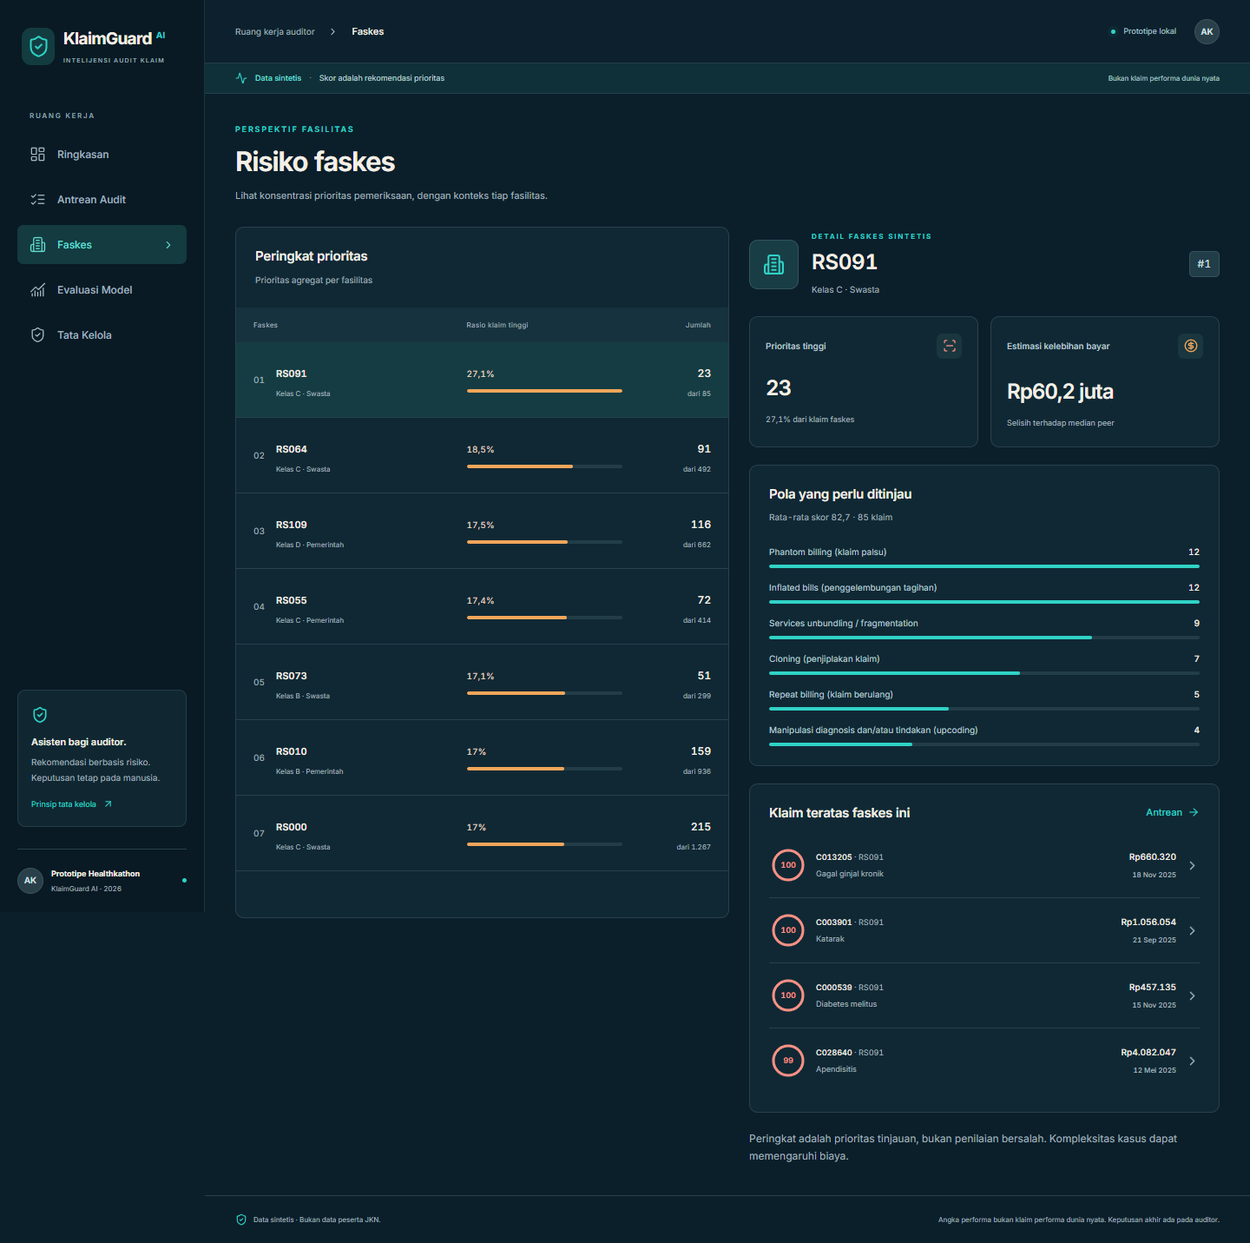
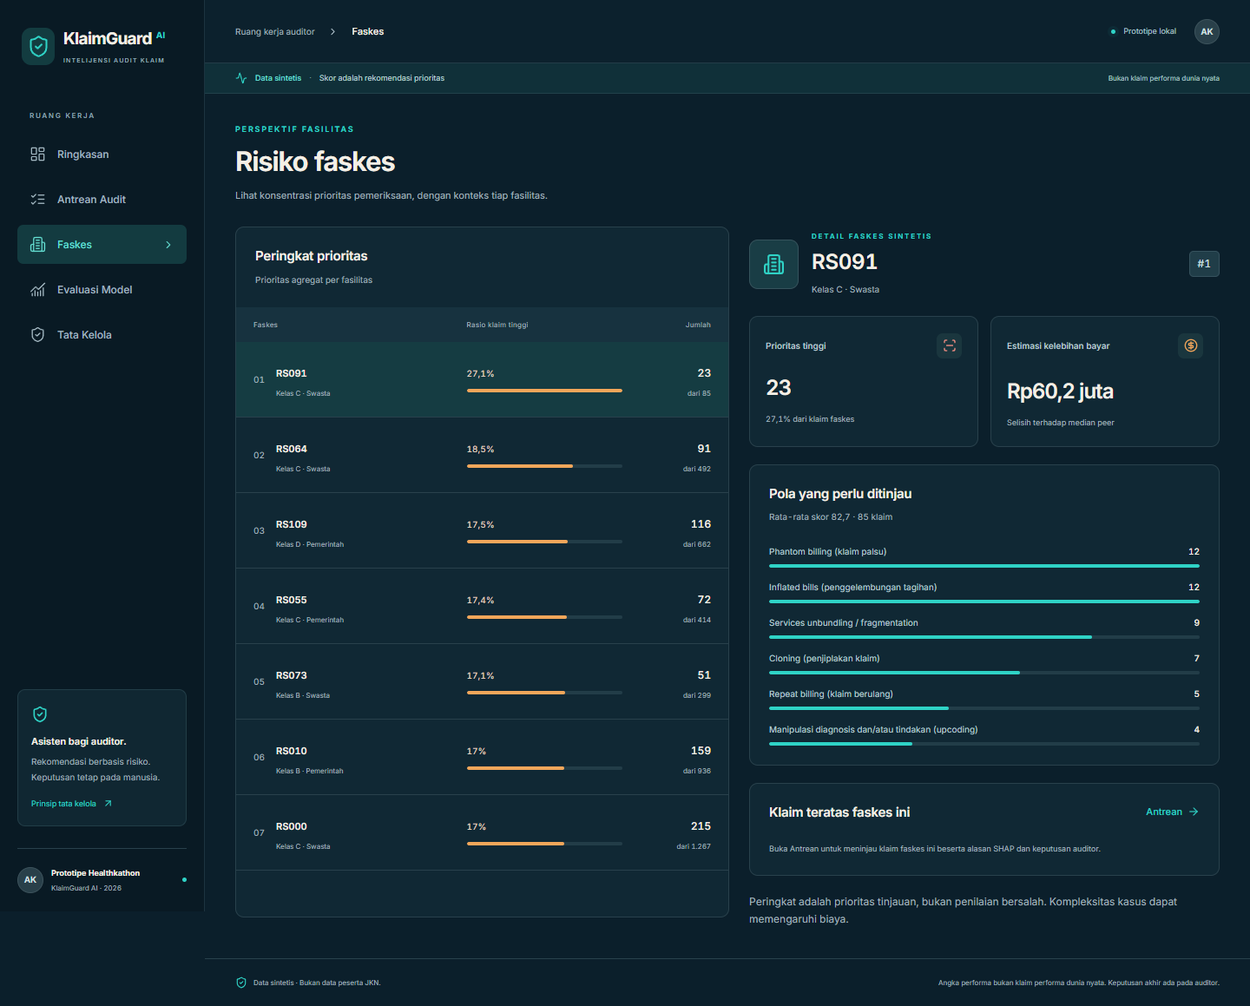
perf(web): defer claim payload until audit queue and verify mobile gains

diff --git a/web/src/App.tsx b/web/src/App.tsx
@@ -2,7 +2,7 @@ import { Component, lazy, Suspense, useCallback, useEffect, useState } from 'rea
 import type { ReactNode } from 'react'
 import { Activity, ArrowUpRight, Building2, ChartNoAxesCombined, ChevronRight, CircleHelp, FlaskConical, LayoutDashboard, ListChecks, Menu, RefreshCw, ShieldCheck, X } from 'lucide-react'
 import { WorkspaceContext } from './context'
-import { loadData, readDecisions, STORAGE_KEY } from './lib'
+import { loadClaims, loadData, readDecisions, STORAGE_KEY } from './lib'
 import type { Claim, Data, Decision, DecisionValue } from './types'
 import Overview from './pages/Overview'
 import Queue from './pages/Queue'
@@ -30,6 +30,7 @@ export default function App() {
   const [routeKey, setRouteKey] = useState(location.hash)
   const [data, setData] = useState<Data | null>(null)
   const [error, setError] = useState(''), [reload, setReload] = useState(0)
+  const [claimsError, setClaimsError] = useState('')
   const [menu, setMenu] = useState(false), [evaluation, setEvaluation] = useState(false)
   const [mobile, setMobile] = useState(() => matchMedia('(max-width: 760px)').matches)
   const [initialStorage] = useState(readDecisions)
@@ -50,6 +51,15 @@ export default function App() {
     loadData(controller.signal).then(setData).catch(e => { if (!controller.signal.aborted) setError(e instanceof Error ? e.message : 'Terjadi gangguan saat membaca data.') })
     return () => controller.abort()
   }, [reload])
+  useEffect(() => {
+    if (route !== '/antrean' || !data || data.claimsLoaded) return
+    const controller = new AbortController()
+    setClaimsError('')
+    loadClaims(controller.signal).then(claims => {
+      if (!controller.signal.aborted) setData(previous => previous ? { ...previous, claims, claimsLoaded: true } : previous)
+    }).catch(e => { if (!controller.signal.aborted) setClaimsError(e instanceof Error ? e.message : 'Data klaim belum dapat dimuat.') })
+    return () => controller.abort()
+  }, [route, Boolean(data), data?.claimsLoaded, reload])
   useEffect(() => { const escape = (e: KeyboardEvent) => { if (e.key === 'Escape') setMenu(false) }; document.addEventListener('keydown', escape); return () => document.removeEventListener('keydown', escape) }, [])
   useEffect(() => { const media = matchMedia('(max-width: 760px)'); const change = () => setMobile(media.matches); media.addEventListener('change', change); return () => media.removeEventListener('change', change) }, [])
   const saveDecision = (claim: Claim, decision: DecisionValue, note: string) => {
@@ -58,6 +68,8 @@ export default function App() {
     try { localStorage.setItem(STORAGE_KEY, JSON.stringify(updated)); setStorageError('') } catch { setStorageError('Penyimpanan lokal gagal. Keputusan tersedia selama sesi ini; ekspor CSV sebelum menutup halaman.') }
   }
   const page = route === '/' ? <Overview /> : route === '/antrean' ? <Queue key={routeKey} /> : route === '/faskes' ? <Facilities /> : route === '/evaluasi' ? <Evaluation /> : route === '/tata-kelola' ? <Governance /> : <div className="empty"><h1>Halaman tidak ditemukan</h1><p>Pilih halaman dari navigasi.</p><a className="button button-primary" href="#/">Kembali ke Ringkasan</a></div>
+  const activeError = error || (route === '/antrean' ? claimsError : '')
+  const loading = !data || (route === '/antrean' && !data.claimsLoaded)
   const shell = <>
     <a className="skip-link" href="#main-content" onClick={e => { e.preventDefault(); document.getElementById('main-content')?.focus() }}>Lewati ke konten utama</a>
     {menu && <button className="nav-backdrop" aria-label="Tutup navigasi" onClick={() => setMenu(false)} />}
@@ -66,7 +78,7 @@ export default function App() {
     </aside>
     <div className="app-main"><header className="topbar"><div className="breadcrumb"><button className="mobile-menu icon-button" aria-label="Buka navigasi" aria-expanded={menu} onClick={() => setMenu(!menu)}><Menu size={22} /></button><span>Ruang kerja auditor</span><ChevronRight size={13} /><b>{current?.name || 'Halaman'}</b></div><div className="topbar-status">{evaluation && <a href="#/evaluasi" className="evaluation-pill"><FlaskConical size={13} />Mode Evaluasi</a>}<span className="connection-dot" /><span>Prototipe lokal</span><span className="topbar-avatar">AK</span></div></header>
       <div className="data-banner"><span><Activity size={14} /><b>{data?.summary.data_source === 'sample' ? 'Data contoh sintetis' : 'Data sintetis'}</b><span className="banner-dot">·</span>Skor adalah rekomendasi prioritas</span><span className="banner-right">{data?.summary.data_source === 'sample' ? 'Angka & SHAP ilustratif · bukan hasil ML' : 'Bukan klaim performa dunia nyata'}</span></div>
-      <main id="main-content" tabIndex={-1}><PageBoundary key={routeKey}>{error ? <div className="error-state" role="alert"><CircleHelp size={36} /><h1>Data belum dapat dimuat.</h1><p>{error}</p><p>Pastikan lima file JSON tersedia di folder public/data.</p><button className="button button-primary" onClick={() => { setData(null); setReload(n => n + 1) }}><RefreshCw size={15} />Coba lagi</button></div> : !data ? <Skeleton /> : <Suspense fallback={<Skeleton />}>{page}</Suspense>}</PageBoundary></main>
+      <main id="main-content" tabIndex={-1}><PageBoundary key={routeKey}>{activeError ? <div className="error-state" role="alert"><CircleHelp size={36} /><h1>Data belum dapat dimuat.</h1><p>{activeError}</p><p>Pastikan lima file JSON tersedia di folder public/data.</p><button className="button button-primary" onClick={() => { setData(null); setClaimsError(''); setReload(n => n + 1) }}><RefreshCw size={15} />Coba lagi</button></div> : loading ? <Skeleton /> : <Suspense fallback={<Skeleton />}>{page}</Suspense>}</PageBoundary></main>
       <footer className="app-footer"><span><ShieldCheck size={14} />Data sintetis · Bukan data peserta JKN.</span><span>Angka performa bukan klaim performa dunia nyata. Keputusan akhir ada pada auditor.</span></footer>
     </div>
     {data && selected && <ClaimDrawer key={selected.claim_id} claim={selected} onClose={closeDrawer} />}

diff --git a/web/src/pages/Evaluation.tsx b/web/src/pages/Evaluation.tsx
@@ -55,7 +55,7 @@ export default function Evaluation() {
     <Card title="Recall per jenis pola" subtitle="Anggaran pemeriksaan 5%; pola disuntikkan"><VariantTable rows={report.per_type_recall_at_5} metric="Recall per jenis pola pada anggaran 5%" /></Card>
     <Card title="Eksperimen hold-out per jenis pola" subtitle="Jenis T dikeluarkan dari train supervised sebelum validasi internal"><VariantTable rows={report.holdout} metric="Hasil hold-out per jenis pola" /><div className="holdout-note"><p><b>Pola yang belum pernah dilihat sebagian besar tidak tertangkap model supervised.</b> Tambahan sinyal IF membantu beberapa jenis, tetapi belum memberi keunggulan yang konsisten; IF dan fitur referensi tetap transduktif.</p></div></Card>
     <Card title="Evaluasi per kelompok" subtitle="Parameter tetap; kelompok tidak berbagi outer train/uji maupun inner train/validasi">{report.grouped_eval ? Object.entries(report.grouped_eval).map(([key, result]) => <GroupedTables key={key} result={result} label={key === 'faskes_id' ? 'Faskes terpisah' : 'Pasien terpisah'} />) : <Notice>Evaluasi per kelompok belum tersedia pada JSON yang dimuat.</Notice>}</Card>
-    {evaluation && <Card title="Matriks evaluasi sederhana" subtitle={`Anggaran top ${budget}% dari ${number(summary.dataset.n_claims)} klaim sumber`}><PerformanceLabel /><Notice>Hanya {number(data.claims.filter(c => c.eval).length)} klaim ekspor berlabel; bukan matriks seluruh dataset. {topCount >= data.claims.length && 'Seluruh subset ekspor berada dalam anggaran ini, sehingga nol FN/TN di subset bukan bukti semua kasus tertangkap.'}</Notice><div className="confusion-matrix">{[['Pola disuntikkan · diprioritaskan', matrix.tp, 'Positif benar (TP)'], ['Normal · diprioritaskan', matrix.fp, 'Positif keliru (FP)'], ['Pola disuntikkan · tidak diprioritaskan', matrix.fn, 'Negatif keliru (FN)'], ['Normal · tidak diprioritaskan', matrix.tn, 'Negatif benar (TN)']].map(([label, value, note]) => <div key={label}><span>{label}</span><b><PerformanceValue>{number(Number(value))}</PerformanceValue></b><small>{note}</small></div>)}</div></Card>}
+    {evaluation && !data.claimsLoaded && <Card title="Matriks evaluasi sederhana"><p className="chart-caption">Data klaim belum dimuat. Buka Antrean Audit, lalu kembali untuk melihat matriks subset ekspor.</p><a className="text-link" href="#/antrean">Buka Antrean Audit <ArrowRight size={14} /></a></Card>}{evaluation && data.claimsLoaded && <Card title="Matriks evaluasi sederhana" subtitle={`Anggaran top ${budget}% dari ${number(summary.dataset.n_claims)} klaim sumber`}><PerformanceLabel /><Notice>Hanya {number(data.claims.filter(c => c.eval).length)} klaim ekspor berlabel; bukan matriks seluruh dataset. {topCount >= data.claims.length && 'Seluruh subset ekspor berada dalam anggaran ini, sehingga nol FN/TN di subset bukan bukti semua kasus tertangkap.'}</Notice><div className="confusion-matrix">{[['Pola disuntikkan · diprioritaskan', matrix.tp, 'Positif benar (TP)'], ['Normal · diprioritaskan', matrix.fp, 'Positif keliru (FP)'], ['Pola disuntikkan · tidak diprioritaskan', matrix.fn, 'Negatif keliru (FN)'], ['Normal · tidak diprioritaskan', matrix.tn, 'Negatif benar (TN)']].map(([label, value, note]) => <div key={label}><span>{label}</span><b><PerformanceValue>{number(Number(value))}</PerformanceValue></b><small>{note}</small></div>)}</div></Card>}
     <div className="evaluation-grid"><Card title="Kontribusi fitur global" subtitle="Rata-rata |SHAP| OOF dalam log-odds; bukan ukuran akurasi"><PerformanceLabel /><div className="pattern-bars">{report.feature_importance.map(f => <div className="pattern-bar" key={f.feature}><div><span>{f.label}</span><b><PerformanceValue>{number(f.importance)}</PerformanceValue></b></div><div className="bar-track"><i style={{ width: `${f.importance / Math.max(...report.feature_importance.map(x => x.importance), 0.01) * 100}%` }} /></div></div>)}</div></Card><Card title="Alur yang dapat ditelusuri" subtitle={`Seed ${report.config.seed} · ${report.config.folds} fold`}><div className="pipeline">{['Input sintetis', 'Fitur klaim & median peer', 'Isolation Forest + XGBoost', 'Penjelasan SHAP', 'Auditor manusia'].map((s, i) => <div key={s}><span>{String(i + 1).padStart(2, '0')}</span><b>{s}</b>{i < 4 && <ArrowRight size={15} />}</div>)}</div><p className="chart-caption">Skor antrean mempertahankan persentil hybrid OOF per klaim. Evaluasi kelompok tidak mengganti skor ini.</p></Card></div>
     <Card title="Batasan" className="limitations"><ul><li>Seluruh data sintetis dan pola fraud disuntikkan. Angka performa bukan klaim performa dunia nyata.</li><li>Overlap terarah dipilih setelah membandingkan definisi pada data penuh; keputusan ini membatasi independensi evaluasi.</li><li>IF, median peer, tetangga dan riwayat menggunakan batch penuh tanpa label: evaluasi transduktif, termasuk pada skema kelompok.</li><li>Biaya tinggi pada faskes kasus kompleks dapat wajar; false positive perlu diperiksa oleh auditor manusia.</li><li>Performa pada data riil, kelompok baru dan masa depan harus divalidasi ulang dengan izin resmi.</li><li>Skor adalah peringkat prioritas, bukan probabilitas fraud. Keputusan akhir ada pada auditor.</li></ul>{report.notes.map((note, i) => <p key={i} className="model-note">{note}</p>)}</Card>
   </>

diff --git a/web/src/pages/Overview.tsx b/web/src/pages/Overview.tsx
@@ -1,13 +1,13 @@
 import { ArrowRight, Building2, CircleDollarSign, Files, ScanLine, ShieldCheck } from 'lucide-react'
 import { useWorkspace } from '../context'
-import { BudgetStatement, Card, LiftChart, Metric, PageHeading, TopClaims, PerformanceLabel } from '../components'
+import { BudgetStatement, Card, LiftChart, Metric, PageHeading, PerformanceLabel } from '../components'
 import BudgetSimulation from '../BudgetSimulation'
 import { compactMoney, number } from '../lib'
 import { PATTERNS } from '../types'
 
 export default function Overview() {
   const { data } = useWorkspace()
-  const { summary, claims, report } = data
+  const { summary, report } = data
   const counts = PATTERNS.map(p => ({ name: p, count: data.facilities.reduce((n, f) => n + (f.pattern_counts[p] || 0), 0) })).sort((a, b) => b.count - a.count)
   const hist = summary.score_hist
   const max = Math.max(...hist.counts, 1)
@@ -19,6 +19,6 @@ export default function Overview() {
     <BudgetSimulation />
     <div className="overview-charts"><Card title="Sebaran skor risiko" subtitle="Persentil skor, bukan probabilitas fraud" action={<span className="mini-label">SKOR 0–100</span>}><div className="histogram"><div className="hist-y"><span>{number(max)}</span><span>{number(Math.round(max / 2))}</span><span>0</span></div><div className="hist-columns">{hist.counts.map((n, i) => <div className="hist-col" key={i} title={`Skor ${hist.bin_edges[i]}–${hist.bin_edges[i + 1]}: ${n} klaim`}><div style={{ height: `${n / max * 100}%`, background: hist.bin_edges[i] >= 95 ? 'var(--coral)' : hist.bin_edges[i] >= 90 ? 'var(--amber)' : 'var(--teal)' }} /><span>{i % 4 === 0 ? hist.bin_edges[i] : ''}</span></div>)}</div></div><div className="tier-summary"><span><i className="legend-dot bg-teal" />Rendah <b>{number(summary.kpi.n_low)}</b></span><span><i className="legend-dot bg-amber" />Menengah <b>{number(summary.kpi.n_medium)}</b></span><span><i className="legend-dot bg-coral" />Tinggi <b>{number(summary.kpi.n_high)}</b></span></div><p className="chart-caption">Skor berupa peringkat relatif; tidak menunjukkan peluang suatu klaim bermasalah.</p></Card>
       <Card title="Komposisi pola dugaan" subtitle="Pola yang berpotensi perlu diperiksa"><div className="pattern-bars">{counts.map((p, i) => <div className="pattern-bar" key={p.name}><div><span>{p.name}</span><b>{number(p.count)}</b></div><div className="bar-track"><i style={{ width: `${p.count / maxPattern * 100}%`, background: ['#2FD3C6', '#56B9B5', '#F2A65A', '#DAB483', '#EE8C81', '#779EAC'][i] }} /></div></div>)}</div><p className="chart-caption">Satu klaim dapat memiliki lebih dari satu pola dugaan.</p></Card></div>
-    <div className="overview-bottom"><Card title="Pemeriksaan berbasis prioritas" subtitle="Cakupan kasus berlabel pada data sintetis"><PerformanceLabel /><LiftChart report={report} compact /><div className="lift-insight"><BudgetStatement report={report} /></div></Card><Card title="Mulai dari prioritas teratas" subtitle="Buka klaim untuk melihat alasan dan konteks" action={<a className="text-link" href="#/antrean">Lihat semua <ArrowRight size={14} /></a>}><TopClaims claims={claims.slice(0, 4)} /><div className="human-note"><ShieldCheck size={16} /><span>Skor memberi arah. Auditor memegang keputusan.</span></div></Card></div>
+    <div className="overview-bottom"><Card title="Pemeriksaan berbasis prioritas" subtitle="Cakupan kasus berlabel pada data sintetis"><PerformanceLabel /><LiftChart report={report} compact /><div className="lift-insight"><BudgetStatement report={report} /></div></Card><Card title="Mulai dari prioritas teratas" subtitle="Buka klaim untuk melihat alasan dan konteks" action={<a className="text-link" href="#/antrean">Lihat semua <ArrowRight size={14} /></a>}><p className="chart-caption">Buka Antrean Audit untuk memuat klaim teratas, meninjau alasan SHAP, dan mencatat keputusan pemeriksaan.</p><a className="button button-primary" href="#/antrean">Tinjau klaim prioritas <ArrowRight size={16} /></a><div className="human-note"><ShieldCheck size={16} /><span>Skor memberi arah. Auditor memegang keputusan.</span></div></Card></div>
   </>
 }

diff --git a/web/src/pages/Facilities.tsx b/web/src/pages/Facilities.tsx
@@ -16,7 +16,7 @@ export default function Facilities() {
     <div className="facility-layout"><Card title="Peringkat prioritas" subtitle="Prioritas agregat per fasilitas" className="facility-ranking"><div className="facility-table" role="table" aria-label="Peringkat faskes"><div className="facility-rank-header" role="row"><span role="columnheader">Faskes</span><span role="columnheader">Rasio klaim tinggi</span><span role="columnheader">Jumlah</span></div>{data.facilities.slice().sort((a, b) => a.risk_rank - b.risk_rank).map(f => <button role="row" key={f.faskes_id} className={`facility-row ${f.faskes_id === id ? 'selected' : ''}`} aria-label={`Lihat ${f.faskes_id}`} aria-selected={f.faskes_id === id} onClick={() => setId(f.faskes_id)}><span role="cell" className="facility-id"><span className="rank-number">{String(f.risk_rank).padStart(2, '0')}</span><span><b>{f.faskes_id}</b><small>Kelas {f.faskes_class} · {f.faskes_ownership}</small></span></span><span role="cell" className="facility-bar"><span>{percent(f.high_rate)}</span><span className="bar-track"><i style={{ width: `${f.high_rate / max * 100}%` }} /></span></span><span role="cell" className="text-right"><b>{number(f.n_high)}</b><small>dari {number(f.n_claims)}</small></span></button>)}</div></Card>
       <div className="facility-detail"><div className="facility-profile"><span className="facility-profile-icon"><Building2 size={25} /></span><div><div className="eyebrow">DETAIL FASKES SINTETIS</div><h2>{selected.faskes_id}</h2><p>Kelas {selected.faskes_class} · {selected.faskes_ownership}</p></div><span className="count-badge">#{selected.risk_rank}</span></div><div className="facility-metrics"><Metric label="Prioritas tinggi" value={number(selected.n_high)} description={`${percent(selected.high_rate)} dari klaim faskes`} icon={<ScanLine size={16} />} color="coral" /><Metric label="Estimasi kelebihan bayar" value={compactMoney(selected.est_excess_total)} description="Selisih terhadap median peer" icon={<CircleDollarSign size={16} />} color="amber" /></div>
         <Card title="Pola yang perlu ditinjau" subtitle={`Rata-rata skor ${number(selected.avg_risk)} · ${number(selected.n_claims)} klaim`}><div className="pattern-bars">{patterns.filter(([, n]) => n > 0).map(([p, n]) => <div className="pattern-bar" key={p}><div><span>{p}</span><b>{number(n)}</b></div><div className="bar-track"><i style={{ width: `${n / Math.max(...patterns.map(([, v]) => v), 1) * 100}%` }} /></div></div>)}{!patterns.some(([, n]) => n > 0) && <Empty title="Belum ada pola dugaan." text="Klaim tetap dapat diperiksa berdasarkan konteksnya." />}</div></Card>
-        <Card title="Klaim teratas faskes ini" action={<a className="text-link" href={`#/antrean?faskes=${selected.faskes_id}`}>Antrean <ArrowRight size={14} /></a>}><TopClaims claims={data.claims.filter(c => c.faskes_id === id).slice().sort((a, b) => b.risk_score - a.risk_score).slice(0, 4)} /></Card><p className="muted text-xs">Peringkat adalah prioritas tinjauan, bukan penilaian bersalah. Kompleksitas kasus dapat memengaruhi biaya.</p>
+        <Card title="Klaim teratas faskes ini" action={<a className="text-link" href={`#/antrean?faskes=${selected.faskes_id}`}>Antrean <ArrowRight size={14} /></a>}>{data.claimsLoaded ? <TopClaims claims={data.claims.filter(c => c.faskes_id === id).slice().sort((a, b) => b.risk_score - a.risk_score).slice(0, 4)} /> : <p className="chart-caption">Buka Antrean untuk meninjau klaim faskes ini beserta alasan SHAP dan keputusan auditor.</p>}</Card><p className="muted text-xs">Peringkat adalah prioritas tinjauan, bukan penilaian bersalah. Kompleksitas kasus dapat memengaruhi biaya.</p>
       </div>
     </div>
   </>

diff --git a/web/src/lib.ts b/web/src/lib.ts
@@ -1,4 +1,4 @@
-import type { Data, Decision } from './types'
+import type { Claim, Data, Decision } from './types'
 
 export const number = (n: number) => new Intl.NumberFormat('id-ID', { maximumFractionDigits: 1 }).format(n)
 export const percent = (n: number, digits = 1) => new Intl.NumberFormat('id-ID', { style: 'percent', maximumFractionDigits: digits }).format(n)
@@ -8,15 +8,24 @@ export const date = (value: string) => new Intl.DateTimeFormat('id-ID', { day: '
 export const STORAGE_KEY = 'klaimguard:auditor-decisions:v1'
 
 export async function loadData(signal?: AbortSignal): Promise<Data> {
-  const names = ['summary', 'claims_flagged', 'faskes_risk', 'model_report', 'feature_dictionary']
-  const [summary, claims, facilities, report, dictionary] = await Promise.all(names.map(async name => {
+  const names = ['summary', 'faskes_risk', 'model_report', 'feature_dictionary']
+  const [summary, facilities, report, dictionary] = await Promise.all(names.map(async name => {
     const response = await fetch(`${import.meta.env.BASE_URL}data/${name}.json`, { signal })
     if (!response.ok) throw new Error(`${name}.json tidak dapat dimuat (HTTP ${response.status}).`)
     try { return await response.json() } catch { throw new Error(`Format ${name}.json tidak valid.`) }
   }))
   if (!summary?.dataset?.synthetic) throw new Error('Dashboard ini hanya menerima data sintetis sesuai kontrak proyek.')
-  if (!Array.isArray(claims) || !Array.isArray(facilities) || !Array.isArray(dictionary) || !Array.isArray(summary.score_hist?.counts) || !Array.isArray(report?.lift_curve)) throw new Error('Struktur JSON belum sesuai kontrak data. Periksa file ekspor.')
-  return { summary, claims, facilities, report, dictionary }
+  if (!Array.isArray(facilities) || !Array.isArray(dictionary) || !Array.isArray(summary.score_hist?.counts) || !Array.isArray(report?.lift_curve)) throw new Error('Struktur JSON belum sesuai kontrak data. Periksa file ekspor.')
+  return { summary, claims: [], claimsLoaded: false, facilities, report, dictionary }
+}
+
+export async function loadClaims(signal?: AbortSignal): Promise<Claim[]> {
+  const response = await fetch(`${import.meta.env.BASE_URL}data/claims_flagged.json`, { signal })
+  if (!response.ok) throw new Error(`claims_flagged.json tidak dapat dimuat (HTTP ${response.status}).`)
+  let claims: unknown
+  try { claims = await response.json() } catch { throw new Error('Format claims_flagged.json tidak valid.') }
+  if (!Array.isArray(claims)) throw new Error('Struktur JSON klaim belum sesuai kontrak data. Periksa file ekspor.')
+  return claims
 }
 
 export function readDecisions(): { decisions: Record<string, Decision>; error: string } {

diff --git a/web/src/types.ts b/web/src/types.ts
@@ -36,6 +36,6 @@ export interface Report {
   grouped_eval?: Record<string, GroupedEvaluation>
 }
 export interface Feature { feature: string; label: string; explain: string; template: string }
-export interface Data { summary: Summary; claims: Claim[]; facilities: Facility[]; report: Report; dictionary: Feature[] }
+export interface Data { summary: Summary; claims: Claim[]; claimsLoaded: boolean; facilities: Facility[]; report: Report; dictionary: Feature[] }
 export type DecisionValue = 'Perlu diperiksa' | 'Wajar' | 'Eskalasi'
 export interface Decision { claim_id: string; decision: DecisionValue; note: string; updated_at: string }

diff --git a/STATUS.md b/STATUS.md
@@ -62,7 +62,9 @@ Checkpoint 25 Oktober 2026 setelah persetujuan Gate A bersyarat:
 - Lighthouse 13.5.0, **satu run per skenario**: Ringkasan desktop **100/100/100**, Antrean desktop **100/100/100**, Ringkasan mobile **88/100/100**, Antrean mobile **89/100/100** (Performance/Accessibility/Best Practices). LCP mobile 3,775/3,698 detik; mobile belum mencapai 90. Kondisi throttling dan hasil lengkap di `web/QA.md` serta `web/qa-report.json`. Tidak memilih hasil terbaik dari pengulangan.
 - Temuan QA: overflow mobile dari label aksesibilitas diperbaiki. Matriks evaluasi hanya subset 3.000 ekspor; budget 5% mencakup 3.136 klaim sehingga nol FN/TN pada subset bukan bukti cakupan seluruh dataset. UI menjelaskan keterbatasan ini. Tidak ada tuning, perubahan dataset/generator, penggantian skor antrean atau deployment. **Berhenti di Gate C.**
 
-Tambahan setelah persetujuan Gate C (25 Oktober 2026): kartu simulasi Ringkasan kini mempunyai satu baris sampling acak dan dua baris KlaimGuard: validasi per klaim dan validasi faskes ditahan (lebih ketat), semuanya dari JSON. Faskes ditahan: recall 72,45%, precision 64,32%, sekitar 1,6 klaim per kasus; skor antrean tidak diganti. Build dan 15 kelompok QA lolos, termasuk perhitungan semua sel kartu dan screenshot desktop/mobile yang diperbarui. Optimasi lazy dan kesiapan repo sedang dikerjakan. Tidak push atau deploy oleh agent.
+Tambahan setelah persetujuan Gate C (25 Oktober 2026): kartu simulasi Ringkasan kini mempunyai satu baris sampling acak dan dua baris KlaimGuard: validasi per klaim dan validasi faskes ditahan (lebih ketat), semuanya dari JSON. Faskes ditahan: recall 72,45%, precision 64,32%, sekitar 1,6 klaim per kasus; skor antrean tidak diganti. Build dan QA lolos, termasuk perhitungan semua sel kartu dan screenshot desktop/mobile yang diperbarui. Tidak push atau deploy oleh agent.
+
+Quick win lazy dipertahankan: `claims_flagged.json` hanya diminta saat Antrean dibuka, lalu disimpan dalam memori sesi. Ringkasan memakai tautan ke Antrean; Faskes dan matriks Evaluasi menjelaskan jika klaim belum dimuat. Enam belas kelompok QA lolos, termasuk tidak ada request klaim pada empat rute lain, cold evaluation tanpa matriks nol palsu, cache, retry, pembatalan request, dan tautan langsung Antrean. Lighthouse mobile terkontrol (satu run sebelum/sesudah pada kartu baru): Ringkasan Performance **87 -> 98**, LCP **3,927 -> 2,270 detik**; Antrean **88 -> 88**, LCP **3,850 -> 3,760 detik**; Accessibility/Best Practices seluruhnya 100. Pengukuran dan implementasi optimasi selesai di bawah batas 30 menit; tidak memilih run terbaik. Data/model/skor OOF tidak diubah. Kesiapan repo dan instalasi bersih sedang diverifikasi.
 
 ## Jadwal target
 | Tanggal | Pekerjaan |
